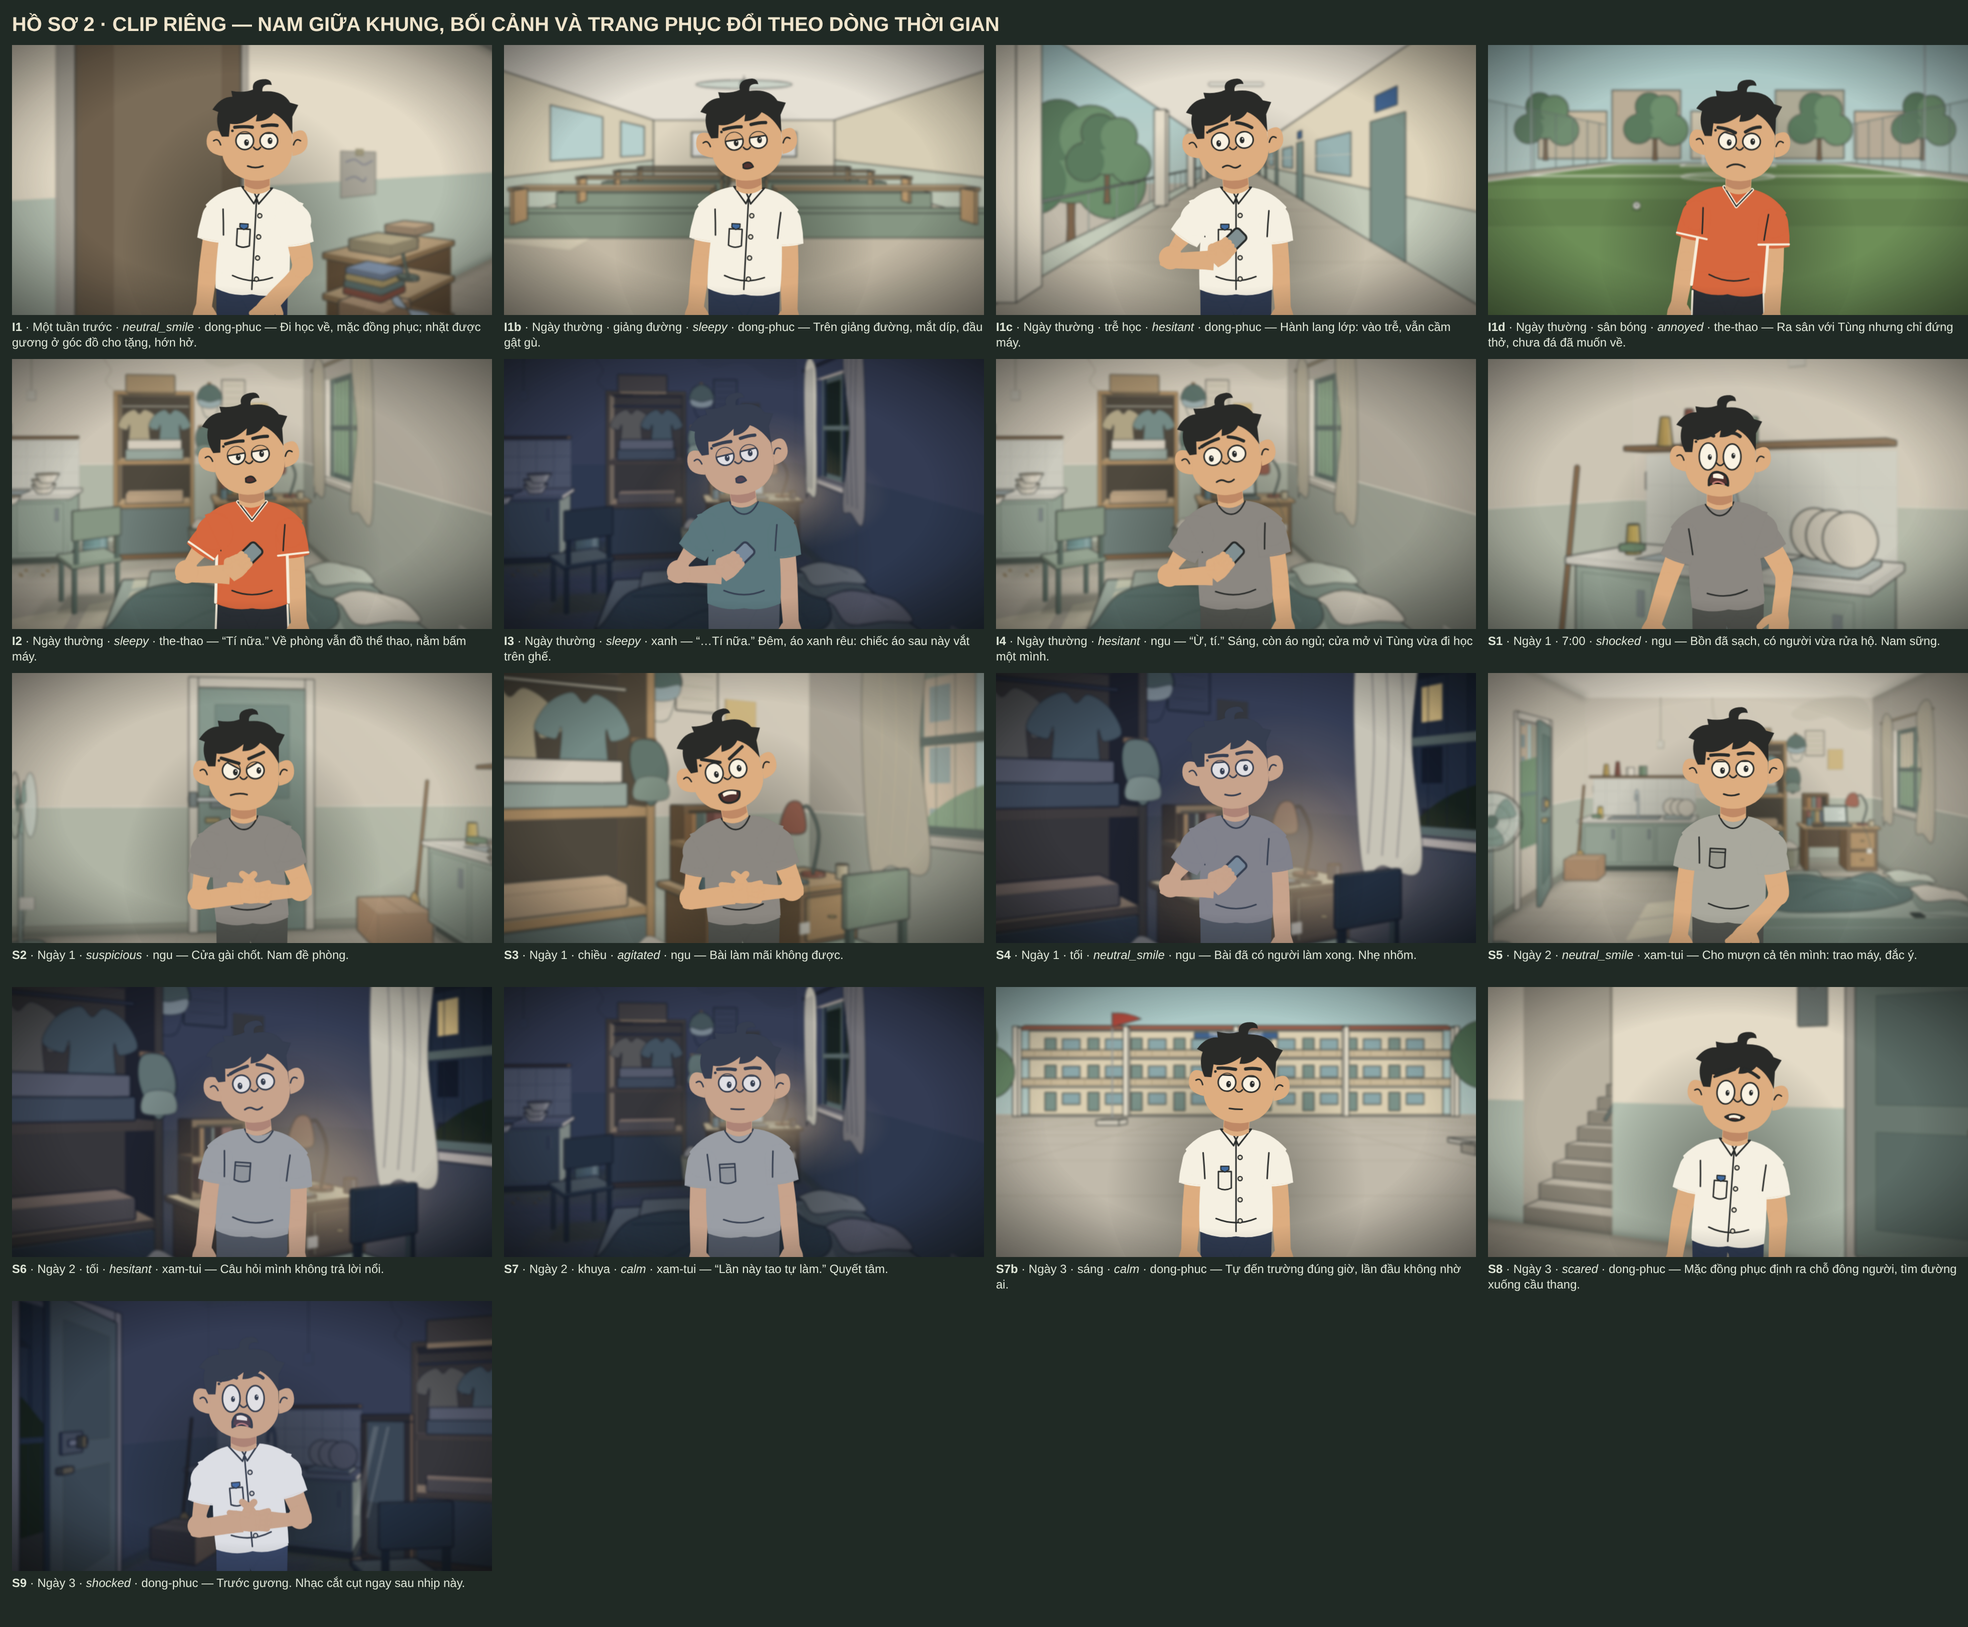
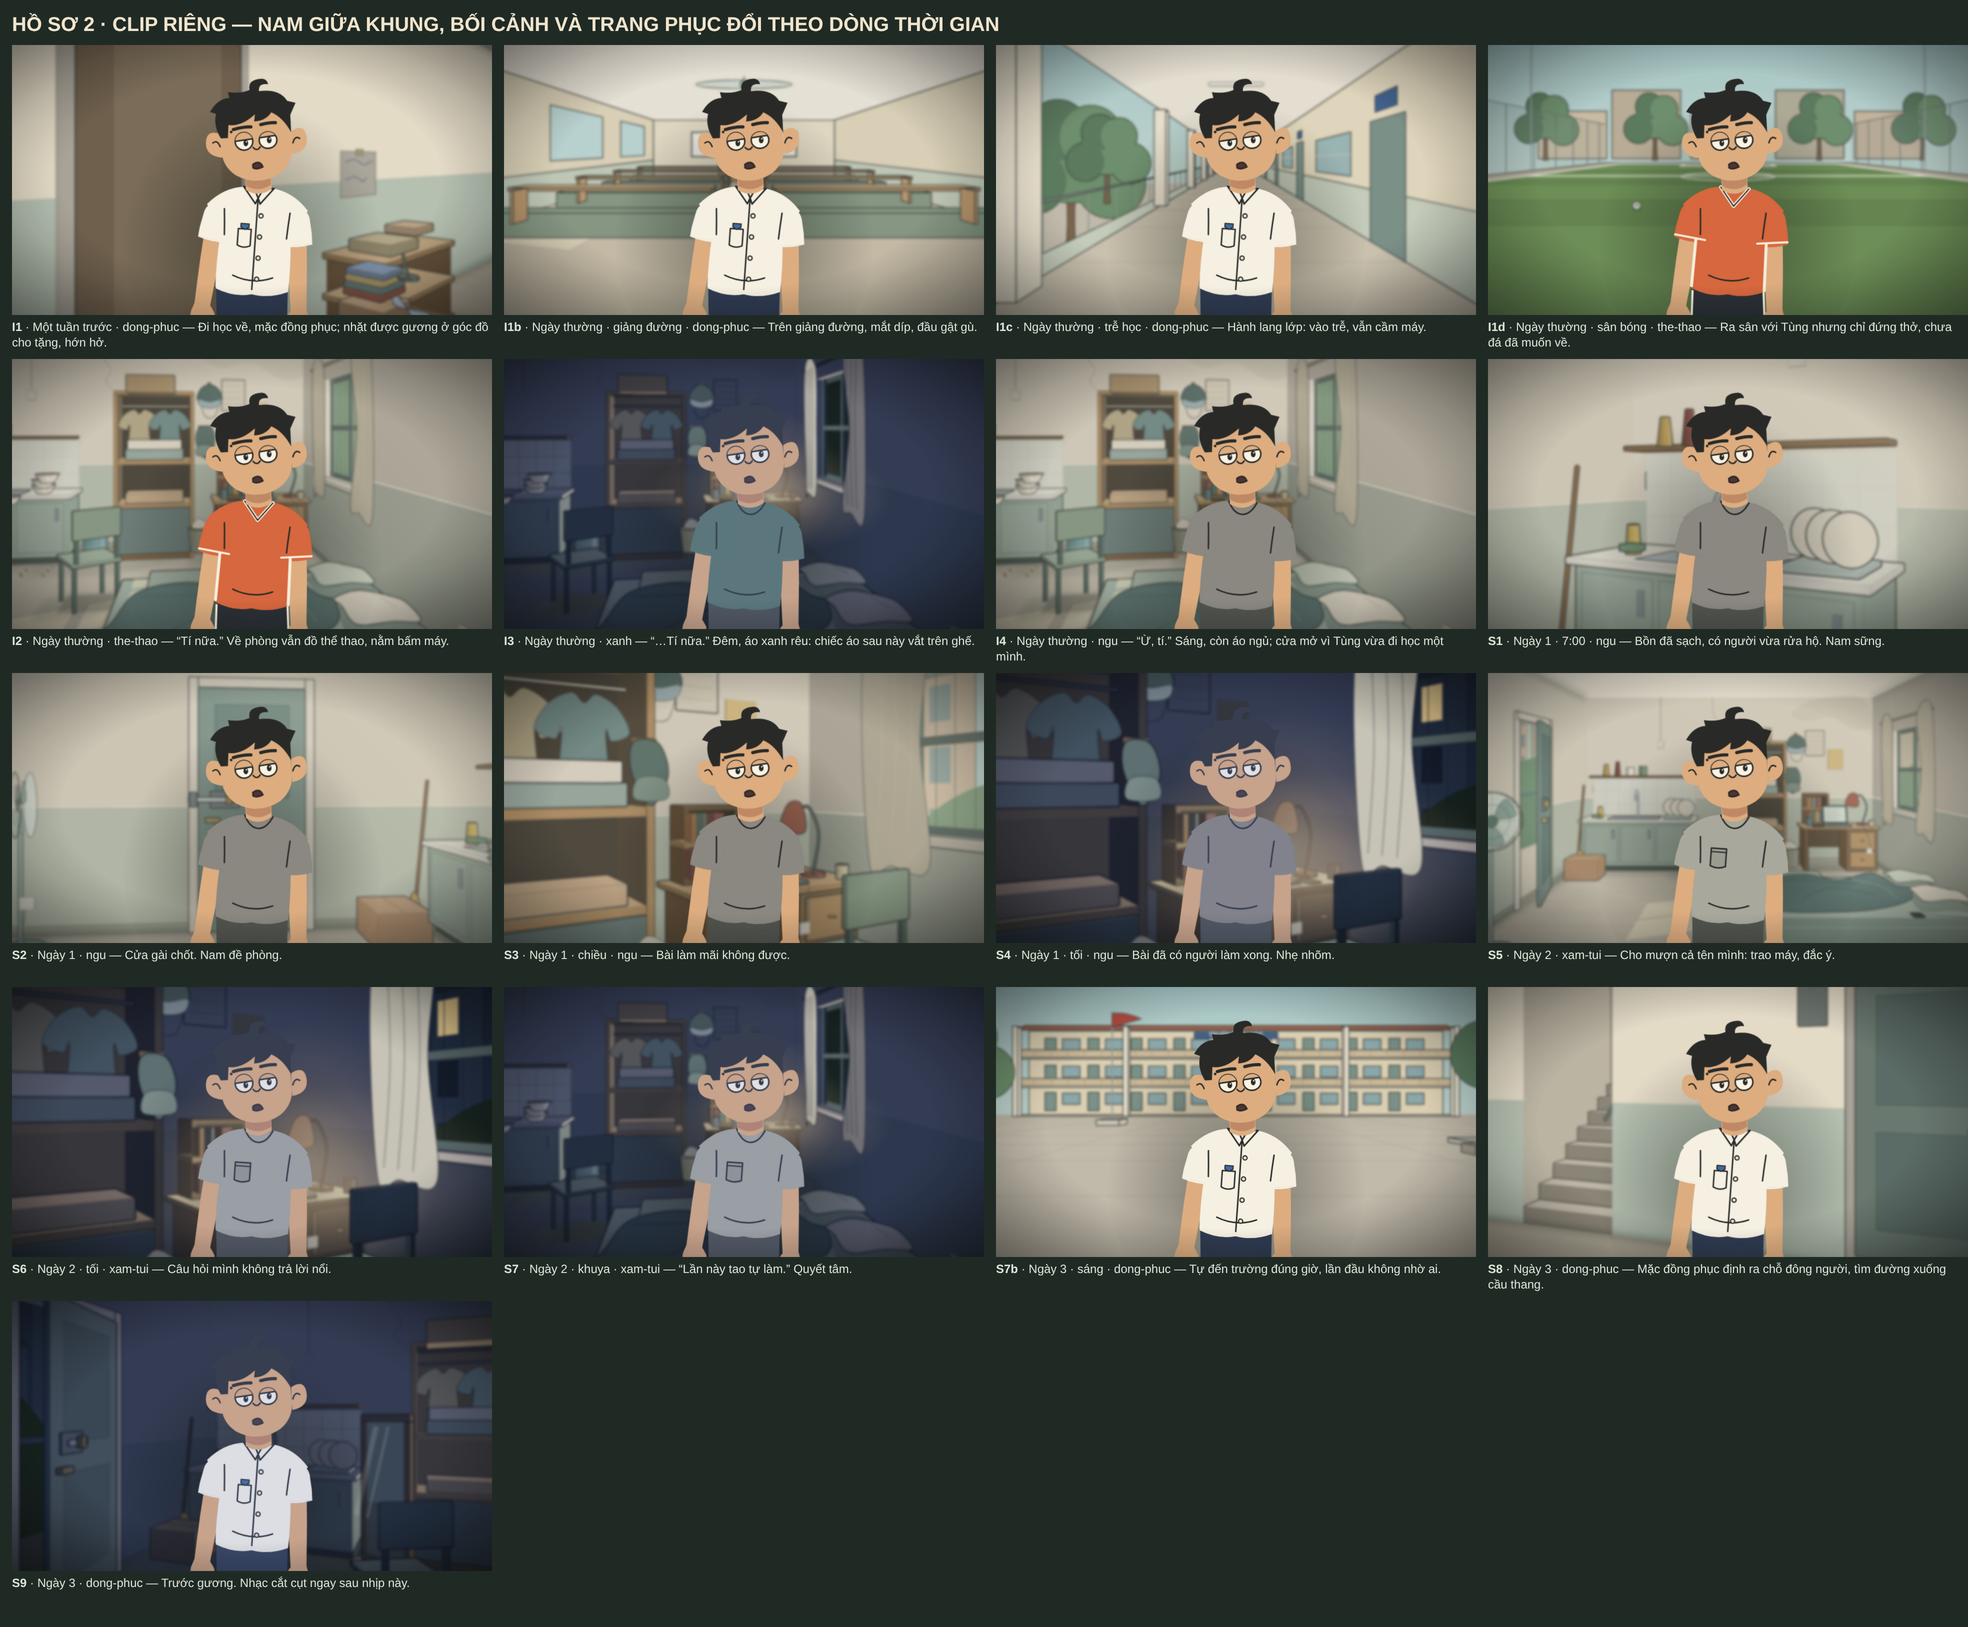
Keep Nam still with a lazy look in centered clip
Drop per-beat surprise and fear expressions and hand gestures; only
backgrounds and outfits change.

Claude-Session: https://claude.ai/code/session_015xtvRhLRyfqVC2mbHabEYR

diff --git a/what-if-studio/src/episodes/ho-so-02-nguoi-lam-thay/trailer-nam-giua-khung.tsx b/what-if-studio/src/episodes/ho-so-02-nguoi-lam-thay/trailer-nam-giua-khung.tsx
@@ -1,6 +1,6 @@
 import React from 'react';
 import { AbsoluteFill, interpolate, useCurrentFrame } from 'remotion';
-import { JointPose, mixPose, NamMood, NamOutfitId, STAND_POSE, StudentTwinBody, TWIN_POSES } from '../../../../episodes/hem-co-chuyen/ho-so-02-nguoi-lam-thay/assets/nhan-vat';
+import { JointPose, NamMood, NamOutfitId, STAND_POSE, StudentTwinBody, TWIN_POSES } from '../../../../episodes/hem-co-chuyen/ho-so-02-nguoi-lam-thay/assets/nhan-vat';
 import { BedCorner, DoorInside, GiveawayCorner, HallwayStairs, KitchenSink, MirrorCorner, RoomMorning, RoomProps, StudyCornerMorning, StudyDeskNight } from '../../../../episodes/hem-co-chuyen/ho-so-02-nguoi-lam-thay/assets/boi-canh/boi-canh';
 import { FootballPitch, LectureRoom, SchoolCorridor, SchoolYard } from '../../../../episodes/hem-co-chuyen/ho-so-02-nguoi-lam-thay/assets/boi-canh/truong-va-san';
 
@@ -54,6 +54,10 @@ export const BEATS_STORY: Beat[] = [
   { id: 'S9', chip: 'Ngày 3', bg: MirrorCorner, bgProps: { night: true, move: { truck: -110 } }, mood: 'shocked', pose: P.wary, outfit: 'dong-phuc', night: true, note: 'Trước gương. Nhạc cắt cụt ngay sau nhịp này.' },
 ];
 
+/** Theo yêu cầu 10/11/2026: Nam đứng yên với vẻ lười biếng (mắt lờ đờ, hơi gù, đầu cúi nhẹ), tay buông, không kinh ngạc/hoảng sợ.
+ *  `mood`/`pose` trong từng nhịp chỉ còn là ghi chú cảm xúc của truyện, không vẽ lên hình. */
+export const STILL_MOOD: NamMood = 'sleepy';
+export const STILL_POSE: JointPose = { ...STAND_POSE, tilt: 4, neck: -7, armR: { a: 3, b: 4 }, armL: { a: 3, b: 4, rot: -1 } };
 export const BEAT_FRAMES = 9; // 0,3 giây mỗi nhịp ở 30 fps: mỗi bối cảnh chỉ thoáng qua (yêu cầu 10/11/2026)
 export const BLEND = 3; // số frame hòa nền và nối dáng giữa hai nhịp
 export const LAST_HOLD = 12; // nhịp cuối giữ thêm trước khi cắt đen
@@ -65,12 +69,12 @@ const NAM = { x: 960, y: 150, scale: 2.35 };
 /** Một khung hình của đoạn, thuần theo tham số để vừa dùng trong Remotion vừa xuất bảng tĩnh. */
 export const NamCenterFrame: React.FC<{ beat: Beat; prev?: Beat; t: number; k: number; blinkOn?: boolean; showChip?: boolean }> = ({ beat, prev, t, k, blinkOn = false, showChip = false }) => {
   // t: 0..1 tiến độ hòa từ nhịp trước sang nhịp này; k: 0..1 tiến độ trong nhịp (để nền trôi).
-  const pose = prev && t < 1 ? mixPose(prev.pose, beat.pose, t) : beat.pose;
-  const mood = prev && t < 0.5 ? prev.mood : beat.mood;
+  const pose = STILL_POSE;
+  const mood = STILL_MOOD;
   const outfit = prev && t < 0.5 ? prev.outfit : beat.outfit;
   const night = prev && t < 0.5 ? !!prev.night : !!beat.night;
   const drift = (k - 0.5) * -46;
-  const breathe = 1 + Math.sin(k * Math.PI * 2) * 0.004;
+  const breathe = 1; // đứng yên hoàn toàn
   const Bg = ({ b, op }: { b: Beat; op: number }) => (
     <div style={{ position: 'absolute', inset: 0, opacity: op, transform: `translateX(${drift}px) scale(1.1)`, filter: 'blur(5px) saturate(.82) brightness(.94)' }}>
       <b.bg {...b.bgProps} />
@@ -107,7 +111,7 @@ const useBeat = (beats: Beat[], frame: number) => {
   const local = frame - i * BEAT_FRAMES;
   const span = i === beats.length - 1 ? BEAT_FRAMES + LAST_HOLD : BEAT_FRAMES;
   const t = i === 0 ? 1 : Math.min(1, local / BLEND);
-  return { beat: beats[i], prev: i > 0 ? beats[i - 1] : undefined, t, k: Math.min(1, local / span), blink: i > 0 && local >= 1 && local <= 2 };
+  return { beat: beats[i], prev: i > 0 ? beats[i - 1] : undefined, t, k: Math.min(1, local / span), blink: false };
 };
 
 /** Clip riêng: 13 nhịp liền, giới thiệu rồi hé cả truyện. */
@@ -148,7 +152,7 @@ export const HoSo02TrailerBoard: React.FC = () => {
                 <NamCenterFrame beat={b} t={1} k={0.5} />
               </div>
             </div>
-            <div style={{ color: '#dfe6d8', fontSize: 24, marginTop: 8, lineHeight: 1.3 }}><b>{b.id}</b> · {b.chip} · <i>{b.mood}</i> · {b.outfit} — {b.note}</div>
+            <div style={{ color: '#dfe6d8', fontSize: 24, marginTop: 8, lineHeight: 1.3 }}><b>{b.id}</b> · {b.chip} · {b.outfit} — {b.note}</div>
           </div>
         );
       })}

diff --git a/episodes/hem-co-chuyen/ho-so-02-nguoi-lam-thay/TRAILER-NAM-GIUA-KHUNG.md b/episodes/hem-co-chuyen/ho-so-02-nguoi-lam-thay/TRAILER-NAM-GIUA-KHUNG.md
@@ -10,23 +10,23 @@
 ## Đã chọn và còn đề xuất
 
 - **Đã chọn:**
-  - Nam giữa khung, nền đổi theo thời gian, cảm xúc đổi theo;
+  - Nam giữa khung, nền và trang phục đổi theo thời gian; Nam đứng yên, giữ một vẻ lười biếng (thay cho bản cũ đổi cảm xúc từng nhịp);
   - hé cả truyện;
   - **mỗi bối cảnh chỉ thoáng qua, khoảng 0,3 giây** (yêu cầu sau cùng; trước đó 0,5 rồi 0,93 giây);
   - **nhân vật rõ, nền mờ hơn** (nền nhòe 5 px, giảm nhẹ màu và sáng; quầng tối sau lưng Nam đậm hơn để tách lớp; cảnh đêm phủ tối nhân vật nhẹ hơn để vẫn rõ mặt);
   - **nhiều bộ trang phục, có đồng phục và đồ thể thao**;
   - làm thành clip riêng.
 - **Còn đề xuất:**
-  - thứ tự 17 nhịp, biểu cảm và trang phục từng nhịp;
+  - thứ tự 17 nhịp và trang phục từng nhịp;
   - bốn nhịp ở trường và sân bóng (I1b–I1d, S7b) thêm theo yêu cầu có bối cảnh trường học và sân thể thao; nhịp S7b là chi tiết mới, kịch bản các phần chưa có cảnh Nam tự đến trường;
   - màu đồng phục và đồ thể thao;
   - có lời dẫn hay chỉ nhạc.
 
 ## Nhịp
 
-Khoảng **5,5 giây** ở 30 fps: 17 nhịp × 9 frame, cộng 12 frame giữ ở nhịp cuối. Nền hòa sang nền trong 3 frame. Nam chớp mắt đúng lúc đổi nét mặt và đổi đồ, dáng tay nối mượt. **Không có nhãn thời gian trên hình** (bỏ cho gọn theo yêu cầu); cột thời gian truyện dưới đây chỉ để người dựng theo dõi.
+Khoảng **5,5 giây** ở 30 fps: 17 nhịp × 9 frame, cộng 12 frame giữ ở nhịp cuối. Nền hòa sang nền trong 3 frame. **Nam đứng yên suốt clip với vẻ lười biếng**: mắt lờ đờ, miệng hơi hé, hơi gù, đầu cúi nhẹ, tay buông thõng; không biểu cảm kinh ngạc/hoảng sợ, không cử động tay (yêu cầu 10/11/2026). Chỉ nền và trang phục đổi. **Không có nhãn thời gian trên hình** (bỏ cho gọn theo yêu cầu); cột thời gian truyện dưới đây chỉ để người dựng theo dõi.
 
-| Nhịp | Thời gian truyện | Nền | Nam | Trang phục |
+| Nhịp | Thời gian truyện | Nền | Cảm xúc của truyện (ghi chú, không vẽ lên mặt Nam) | Trang phục |
 |---|---|---|---|---|
 | I1 | Một tuần trước | Góc đồ cho tặng | Hớn hở, tay đưa ra như vừa nhặt được gương | Đồng phục |
 | I1b | Ngày thường | Giảng đường | Mắt díp, đầu gật gù | Đồng phục |
